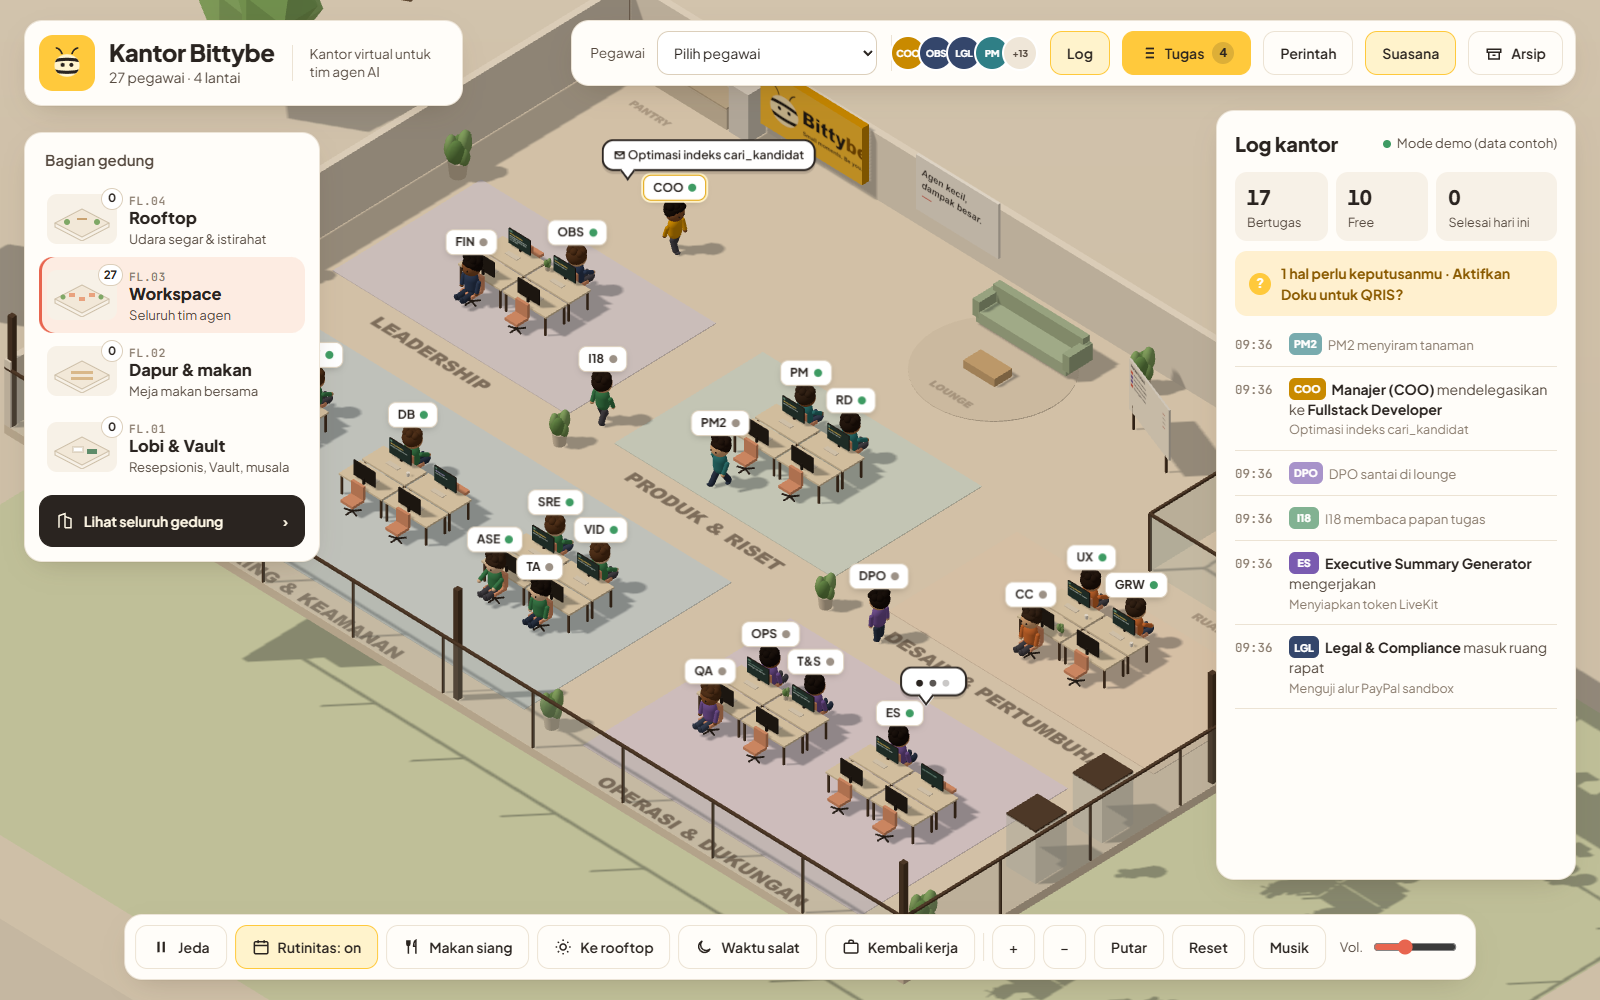
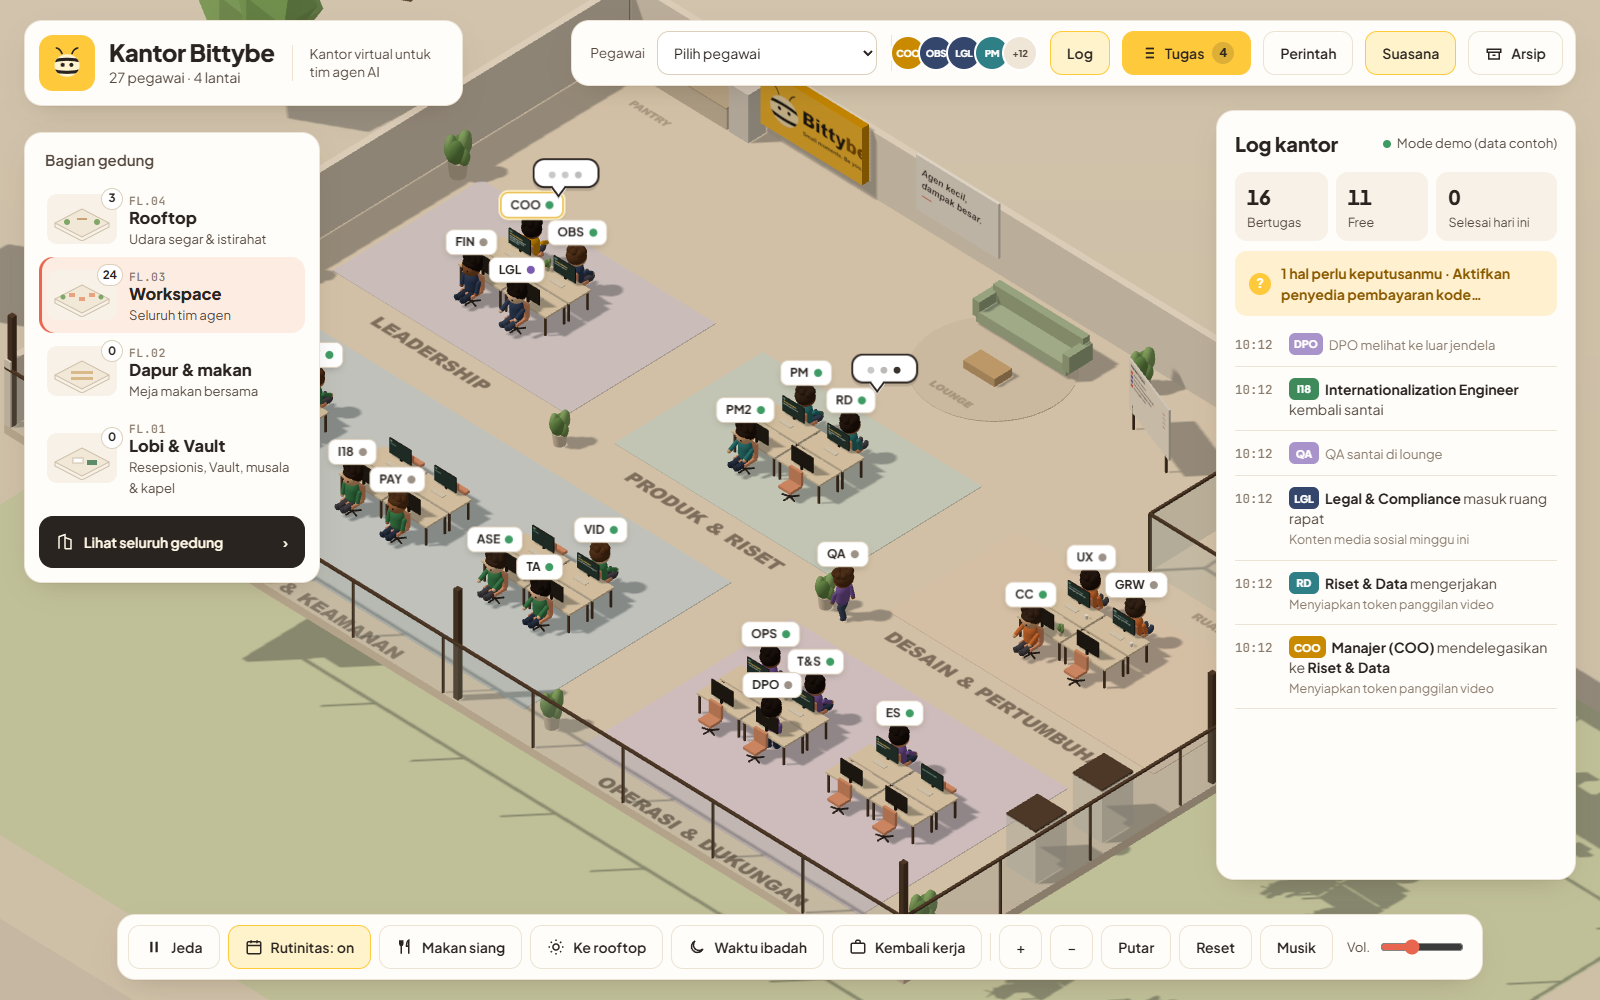
Drop vendor names from the office demo and add the chapel
No payment provider, video platform, messaging app or social network
is named anywhere in the demo data or the lobby signage. FL.01 now has
a chapel beside the prayer room and the routine sends staff to either.

diff --git a/kantor/index.html b/kantor/index.html
@@ -238,7 +238,7 @@ textarea.cmd{width:100%;min-height:120px;resize:vertical;border-radius:12px;bord
     <button class="btn" id="bRutin" type="button" aria-pressed="true"><svg viewBox="0 0 24 24" fill="none" stroke="currentColor" stroke-width="2" aria-hidden="true"><rect x="3" y="5" width="18" height="16" rx="2"/><path d="M3 10h18M8 3v4M16 3v4"/></svg><span>Rutinitas: on</span></button>
     <button class="btn" data-r="makan" type="button"><svg viewBox="0 0 24 24" fill="none" stroke="currentColor" stroke-width="2" aria-hidden="true"><path d="M7 3v8M5 3v5a2 2 0 0 0 4 0V3M7 11v10M17 21V3c-2 1-3 4-3 8h3"/></svg>Makan siang</button>
     <button class="btn" data-r="rooftop" type="button"><svg viewBox="0 0 24 24" fill="none" stroke="currentColor" stroke-width="2" aria-hidden="true"><circle cx="12" cy="12" r="4"/><path d="M12 2v2M12 20v2M2 12h2M20 12h2M5 5l1.5 1.5M17.5 17.5 19 19M5 19l1.5-1.5M17.5 6.5 19 5"/></svg>Ke rooftop</button>
-    <button class="btn" data-r="salat" type="button"><svg viewBox="0 0 24 24" fill="none" stroke="currentColor" stroke-width="2" aria-hidden="true"><path d="M20 14.5A8 8 0 1 1 9.5 4a6.5 6.5 0 0 0 10.5 10.5z"/></svg>Waktu salat</button>
+    <button class="btn" data-r="salat" type="button"><svg viewBox="0 0 24 24" fill="none" stroke="currentColor" stroke-width="2" aria-hidden="true"><path d="M20 14.5A8 8 0 1 1 9.5 4a6.5 6.5 0 0 0 10.5 10.5z"/></svg>Waktu ibadah</button>
     <button class="btn" data-r="kerja" type="button"><svg viewBox="0 0 24 24" fill="none" stroke="currentColor" stroke-width="2" aria-hidden="true"><rect x="3" y="7" width="18" height="13" rx="2"/><path d="M9 7V5a2 2 0 0 1 2-2h2a2 2 0 0 1 2 2v2"/></svg>Kembali kerja</button>
     <span class="sep"></span>
     <button class="btn" id="bIn" type="button" aria-label="Perbesar">+</button>
@@ -372,7 +372,7 @@ function teksLantai(teks, w, h, warna = "rgba(74,58,44,.62)") {
 /* ---- gedung ---- */
 const FH = 5.4, FW = 46, FD = 32, FX = FW / 2, FZ = FD / 2;
 const LANTAI = [
-  { no: 1, kode: "FL.01", nama: "Lobi & Vault", desk: "Resepsionis, Vault, musala" },
+  { no: 1, kode: "FL.01", nama: "Lobi & Vault", desk: "Resepsionis, Vault, musala & kapel" },
   { no: 2, kode: "FL.02", nama: "Dapur & makan", desk: "Meja makan bersama" },
   { no: 3, kode: "FL.03", nama: "Workspace", desk: "Seluruh tim agen" },
   { no: 4, kode: "FL.04", nama: "Rooftop", desk: "Udara segar & istirahat" },
@@ -607,11 +607,25 @@ function bangunLobi(g) {
   for (let i = 0; i < 5; i++) { const sj = kotak(0.9, 0.03, 1.6, i % 2 ? "#B5524A" : "#C9A44A", m0x + 1 + i * 1.6, 0.05, m0z + 1.6); sj.castShadow = false; g.add(sj); SPOT[1].push({ x: m0x + 1 + i * 1.6, z: m0z + 2.0, face: Math.PI, act: "salat di musala" }); }
   const mt = teksLantai("MUSALA", 4, 0.9, "rgba(255,255,255,.75)"); mt.position.set(m0x + 4, 0.06, m0z + 5); g.add(mt);
   for (let i = 0; i < 5; i++) SPOT[1].push({ x: m0x + 1 + i * 1.6, z: m0z + 4.0, face: Math.PI, act: "salat di musala" });
+  // kapel
+  const k0x = -21, k0z = 1;
+  const ks0 = kotak(9, 0.04, 7, "#7E8CA8", k0x + 4.5, 0.02, k0z + 3.5); ks0.castShadow = false; g.add(ks0);
+  for (let r = 0; r < 3; r++) {
+    const zb = k0z + 2.6 + r * 1.5;
+    g.add(kotak(5.4, 0.45, 0.5, "#8C6A49", k0x + 4.5, 0.32, zb));
+    g.add(kotak(5.4, 0.55, 0.16, "#7A5B3E", k0x + 4.5, 0.75, zb + 0.3));
+    for (let s = 0; s < 2; s++) SPOT[1].push({ x: k0x + 3.2 + s * 2.6, z: zb - 0.1, face: Math.PI, duduk: true, act: "berdoa di kapel" });
+  }
+  g.add(kotak(1.8, 0.85, 0.7, "#EFE7D8", k0x + 4.5, 0.42, k0z + 1));
+  g.add(kotak(0.16, 1.15, 0.16, "#8C6A49", k0x + 4.5, 1.45, k0z + 0.5));
+  g.add(kotak(0.72, 0.16, 0.16, "#8C6A49", k0x + 4.5, 1.72, k0z + 0.5));
+  const kpt = teksLantai("KAPEL", 4, 0.9, "rgba(255,255,255,.75)"); kpt.position.set(k0x + 4.5, 0.06, k0z + 6.2); g.add(kpt);
+  SPOT[1].push({ x: k0x + 4.5, z: k0z + 2, face: Math.PI, act: "berdoa di kapel" });
   // sofa tunggu
   g.add(kotak(4, 0.5, 1.1, "#B9CDB0", -8, 0.4, 8)); g.add(kotak(4, 0.8, 0.3, "#AFC4A6", -8, 0.9, 8.5));
   for (const x of [-9.3, -6.7]) SPOT[1].push({ x, z: 7.8, face: Math.PI, duduk: true, sofa: true, act: "menunggu di lobi" });
-  // kios Telegram
-  const kt = kanvas(256, 160, (c, W, H) => { c.fillStyle = "#229ED9"; c.fillRect(0, 0, W, H); c.fillStyle = "#fff"; c.font = "800 26px Plus Jakarta Sans,sans-serif"; c.fillText("Telegram", 20, 52); c.font = "600 19px Plus Jakarta Sans,sans-serif"; c.fillText("→ antrean kantor", 20, 92); c.fillText("perintah pemilik", 20, 122); });
+  // kios antrean
+  const kt = kanvas(256, 160, (c, W, H) => { c.fillStyle = "#6E7F8C"; c.fillRect(0, 0, W, H); c.fillStyle = "#fff"; c.font = "800 26px Plus Jakarta Sans,sans-serif"; c.fillText("Antrean", 20, 52); c.font = "600 19px Plus Jakarta Sans,sans-serif"; c.fillText("→ antrean kantor", 20, 92); c.fillText("perintah pemilik", 20, 122); });
   const ki = new THREE.Group(); ki.position.set(-2, 0, 4);
   ki.add(kotak(0.4, 1.2, 0.4, "#3E3530", 0, 0.6, 0));
   const ks = new THREE.Mesh(new THREE.BoxGeometry(1.4, 0.9, 0.08), [mat("#222"), mat("#222"), mat("#222"), mat("#222"), new THREE.MeshBasicMaterial({ map: kt }), mat("#222")]); ks.position.y = 1.6; ki.add(ks);
@@ -709,7 +723,7 @@ function tujuanUntuk(o, p) {
   if (k === "off") { const s = ambilSpot(o, 4, SPOT[4]); return { lantai: 4, ...s }; }
   if (mode === "makan") return { lantai: 2, ...ambilSpot(o, 2, SPOT[2]) };
   if (mode === "rooftop") return { lantai: 4, ...ambilSpot(o, 4, SPOT[4]) };
-  if (mode === "salat") return { lantai: 1, ...ambilSpot(o, 1, SPOT[1], (s) => s.act === "salat di musala") };
+  if (mode === "salat") return { lantai: 1, ...ambilSpot(o, 1, SPOT[1], (s) => s.act === "salat di musala" || s.act === "berdoa di kapel") };
   lepasSpot(o); return o.meja ? { lantai: 3, ...o.meja, duduk: true, act: "santai" } : { lantai: 3, ...ambilSpot(o, 3, SPOT[3]) };
 }
 const LORONG_Z = [-8.4, 2.6], PENGHUBUNG_X = [-7.8, 6.1];
@@ -914,7 +928,7 @@ function catatAmb(id, aksi) { if (!life) return; feed.unshift({ ts: new Date().t
 let tFeed = 0; function jadwalFeed() { clearTimeout(tFeed); tFeed = setTimeout(renderFeed, 120); }
 function renderFeed() {
   const list = feed.filter((f) => life || !f.amb);
-  $("feed").innerHTML = list.length ? list.slice(0, 80).map((f) => { const p = staff.get(f.who) || { id: f.who, name: f.who }; return `<div class="row${f.amb ? " amb" : ""}" data-id="${esc(f.who)}"><span class="tm">${jam(f.ts)}</span><span class="tx">${chipP(p)}${f.html}</span></div>`; }).join("") : '<div class="kosong">Belum ada aktivitas. Kirim perintah lewat Telegram atau tombol Perintah.</div>';
+  $("feed").innerHTML = list.length ? list.slice(0, 80).map((f) => { const p = staff.get(f.who) || { id: f.who, name: f.who }; return `<div class="row${f.amb ? " amb" : ""}" data-id="${esc(f.who)}"><span class="tm">${jam(f.ts)}</span><span class="tx">${chipP(p)}${f.html}</span></div>`; }).join("") : '<div class="kosong">Belum ada aktivitas. Kirim perintah lewat tombol Perintah.</div>';
   $("feed").querySelectorAll(".row").forEach((r) => (r.onclick = () => pilih(r.dataset.id)));
 }
 function masukEvent(e, anim) {
@@ -973,7 +987,7 @@ let pindahMode = false;
 const SURUH = {
   istirahat: [4, () => SPOT[4], "istirahat ke rooftop"],
   makan: [2, () => SPOT[2], "makan di dapur"],
-  ibadah: [1, () => SPOT[1].filter((s) => s.act === "salat di musala"), "beribadah di musala"],
+  ibadah: [1, () => SPOT[1].filter((s) => s.act === "salat di musala" || s.act === "berdoa di kapel"), "beribadah di musala atau kapel"],
   lounge: [3, () => SPOT[3].filter((s) => s.sofa), "santai di lounge"],
 };
 function catatPemilik(id, teks) { const p = staff.get(id); if (!p) return; feed.unshift({ ts: new Date().toISOString(), who: id, html: `<b>Pemilik</b> · ${esc(namaPendek(p))} ${esc(teks)}`, amb: false }); feed = feed.slice(0, 120); jadwalFeed(); }
@@ -1013,7 +1027,7 @@ function renderSheet() {
     B.querySelectorAll("[data-d]").forEach((b) => (b.onclick = () => tandaiTugas(ow[+b.dataset.d], true, b)));
     B.querySelectorAll("[data-u]").forEach((b) => (b.onclick = () => tandaiTugas(sd[+b.dataset.u], false, b)));
   } else if (tabSheet === "laporan") {
-    // Hasil kerja kantor: sumber sama dengan laporan Telegram (Vault/tasks/office-board.md, skills/lapor_pemilik.py).
+    // Hasil kerja kantor: sumber sama dengan laporan kantor (Vault/tasks/office-board.md, skills/lapor_pemilik.py).
     const hs = board.filter((b) => b.kind === "hasil").sort((a, b) => (a.pos || 0) - (b.pos || 0));
     B.innerHTML = `<p class="t" style="margin:0 0 10px">Laporan hasil kerja kantor, terbaru di atas. Tugas yang perlu Anda kerjakan ada di tab <b>Tugas saya</b>.</p>` +
       (hs.length ? hs.map((b) => `<div class="kd"><span class="tg">HASIL</span><b>${esc(b.title)}</b>${b.detail ? `<div class="t lap">${esc(b.detail)}</div>` : ""}</div>`).join("") : '<div class="kosong">Belum ada laporan hasil.</div>');
@@ -1031,7 +1045,7 @@ function renderSheet() {
     B.querySelectorAll("[data-a]").forEach((b) => (b.onclick = () => unduhArsip(arsip[+b.dataset.a], b)));
   } else {
     const SL = { baru: "terkirim", antre: "antre", dikerjakan: "dikerjakan", selesai: "selesai", gagal: "gagal" };
-    B.innerHTML = `<label for="cmdT" style="font-weight:700">Tulis perintah</label><p class="t" style="margin:4px 0 8px">Masuk antrean yang sama dengan bot Telegram. Manajer (COO) membaca, mendelegasikan ke pegawai yang tepat, dan balasan dikirim ke Telegram. Ctrl+Enter untuk kirim.</p>
+    B.innerHTML = `<label for="cmdT" style="font-weight:700">Tulis perintah</label><p class="t" style="margin:4px 0 8px">Masuk ke antrean kantor. Manajer (COO) membaca, mendelegasikan ke pegawai yang tepat, lalu balasannya dikirim kembali. Ctrl+Enter untuk kirim.</p>
       <textarea class="cmd" id="cmdT" maxlength="4000" placeholder='Contoh: "cek laporan baru dan rangkum", atau "[Pegawai: engineering-sre] cek uptime 24 jam terakhir"'></textarea>
       <div class="cmdbar"><button class="btn dark" type="button" id="cmdK">Kirim perintah →</button><span class="t" id="cmdM" role="status"></span></div>
       <div class="t" style="font-weight:700;margin-bottom:6px">Riwayat perintah</div>
@@ -1059,7 +1073,7 @@ async function tandaiTugas(item, selesai, tombol) {
   if (DEMO) { ubahLokal(); toast(selesai ? "Ditandai sudah (mode demo)." : "Dibatalkan (mode demo)."); return; }
   const { error } = await sb.rpc("owner_tugas_selesai", { p_judul: item.title, p_selesai: selesai });
   if (error) { tombol.disabled = false; toast(error.code === "42501" ? "Hanya pemilik (dengan MFA) yang bisa menandai tugas." : "Gagal menyimpan. Coba lagi."); return; }
-  ubahLokal(); toast(selesai ? "Tugas ditandai sudah. Laporan Telegram ikut diperbarui." : "Tugas dikembalikan ke daftar.");
+  ubahLokal(); toast(selesai ? "Tugas ditandai sudah. Laporan kantor ikut diperbarui." : "Tugas dikembalikan ke daftar.");
 }
 let arsip = null;
 async function muatArsip() {
@@ -1099,7 +1113,7 @@ const setLife = () => { $("bLife").setAttribute("aria-pressed", String(life)); r
 $("bLife").onclick = () => { life = !life; store.set("kb-life", life ? "1" : "0"); setLife(); };
 $("bPause").onclick = () => { paused = !paused; $("bPause").querySelector("span").textContent = paused ? "Lanjut" : "Jeda"; $("bPause").setAttribute("aria-pressed", String(paused)); };
 $("bRutin").onclick = () => { rutin = !rutin; $("bRutin").setAttribute("aria-pressed", String(rutin)); $("bRutin").querySelector("span").textContent = "Rutinitas: " + (rutin ? "on" : "off"); if (!rutin) for (const id of staff.keys()) if (kunci(staff.get(id)) === "free") rencanakan(id); };
-const NAMA_R = { makan: "Makan siang di FL.02", rooftop: "Pegawai free ke rooftop", salat: "Waktu salat di musala FL.01", kerja: "Kembali ke meja" };
+const NAMA_R = { makan: "Makan siang di FL.02", rooftop: "Pegawai free ke rooftop", salat: "Waktu ibadah di FL.01", kerja: "Kembali ke meja" };
 document.querySelectorAll("[data-r]").forEach((b) => (b.onclick = () => {
   mode = b.dataset.r; if (mode === "kerja") for (const o of orang.values()) o.manual = null;
   for (const id of staff.keys()) if (kunci(staff.get(id)) === "free" || mode === "kerja") rencanakan(id);
@@ -1195,11 +1209,11 @@ function langganan() {
 function demo() {
   setLive("demo");
   const daftar = [["executive_bittybe_coo", "COO / Orkestrator", true], ["executive_bittybe_observer", "Observer (audit kepatuhan)", true], ["finance_bittybe_cost", "Finance, Biaya & Payout", true], ["legal_bittybe_compliance", "Legal & Compliance", true], ["product_bittybe_roadmap", "Product Manager & Dokumentasi", true], ["product-manager", "Product Manager", false], ["research_bittybe_investigator", "Riset & Data (Investigator)", true], ["design_bittybe_ux", "Desain Produk & Brand (UX/UI)", true], ["marketing_bittybe_growth", "Growth, Konten & Komunitas", true], ["marketing-content-creator", "Content Creator", false], ["engineering_bittybe_fullstack", "Fullstack Developer (backend + PWA)", true], ["engineering_bittybe_realtime", "Realtime & Video Engineer", true], ["engineering_bittybe_review", "Reviewer", true], ["engineering-database-optimizer", "Database Optimizer", false], ["engineering-frontend-developer", "Frontend Developer", false], ["engineering-i18n-engineer", "Internationalization Engineer", false], ["engineering-payments-billing-engineer", "Payments & Billing Engineer", false], ["engineering-sre", "SRE (Site Reliability Engineer)", false], ["engineering-video-streaming-engineer", "Video Streaming Engineer", false], ["security_bittybe_audit", "Security Auditor", true], ["security-appsec-engineer", "Application Security Engineer", false], ["testing-test-automation-engineer", "Test Automation Engineer", false], ["operations_bittybe_devops", "DevOps & Monitoring", true], ["operations_bittybe_moderation", "Trust & Safety", true], ["operations_bittybe_qa", "QA", true], ["data-privacy-officer", "Data Privacy Officer", false], ["support-executive-summary-generator", "Executive Summary Generator", false]];
-  const TUGAS = ["Memperbaiki filter penemuan", "Menguji alur PayPal sandbox", "Audit RLS tabel chat", "Menulis ringkasan harian", "Menerjemahkan teks baru ke 5 bahasa", "Optimasi indeks cari_kandidat", "Menyiapkan token LiveKit", "Review PR #65", "Konten Instagram minggu ini"];
+  const TUGAS = ["Memperbaiki filter penemuan", "Menguji alur pembayaran di sandbox", "Audit izin akses tabel chat", "Menulis ringkasan harian", "Menerjemahkan teks baru ke 5 bahasa", "Optimasi indeks cari_kandidat", "Menyiapkan token panggilan video", "Review PR #65", "Konten media sosial minggu ini"];
   const st = () => { const r = Math.random(); return r < 0.4 ? "coding" : r < 0.5 ? "riset" : r < 0.62 ? "meeting" : r < 0.95 ? "idle" : "off"; };
   const rows = daftar.map(([id, name, core]) => { const s = st(); return { id, name, core, unit: core ? "Inti · Kepala departemen" : "", status: s, task: s === "idle" || s === "off" ? null : TUGAS[hash(id) % TUGAS.length], updated_at: new Date(Date.now() - 60000).toISOString() }; });
-  board = [{ id: 1, kind: "item", title: "Perbaiki dropdown terjemahan", state: "done", dept: "Engineering" }, { id: 2, kind: "item", title: "Kantor 3D realtime", state: "doing", dept: "Desain" }, { id: 3, kind: "item", title: "Integrasi Doku QRIS", state: "todo", dept: "Engineering" }, { id: 4, kind: "item", title: "Set secrets LiveKit", state: "todo", dept: "DevOps" }, { id: 5, kind: "item", title: "Uji panggilan video", state: "doing", dept: "QA" },
-    { id: 9, kind: "owner", tag: "KEPUTUSAN", title: "Aktifkan Doku untuk QRIS?", detail: "Butuh persetujuan pemilik sebelum kode pembayaran ditulis." },
+  board = [{ id: 1, kind: "item", title: "Perbaiki dropdown terjemahan", state: "done", dept: "Engineering" }, { id: 2, kind: "item", title: "Kantor 3D realtime", state: "doing", dept: "Desain" }, { id: 3, kind: "item", title: "Integrasi pembayaran kode QR", state: "todo", dept: "Engineering" }, { id: 4, kind: "item", title: "Set secrets panggilan video", state: "todo", dept: "DevOps" }, { id: 5, kind: "item", title: "Uji panggilan video", state: "doing", dept: "QA" },
+    { id: 9, kind: "owner", tag: "KEPUTUSAN", title: "Aktifkan penyedia pembayaran kode QR?", detail: "Butuh persetujuan pemilik sebelum kode pembayaran ditulis." },
     { id: 10, kind: "hasil", title: "Contoh laporan hasil", detail: "Ringkasan satu kalimat.\nApa yang dikerjakan: contoh.\nHasilnya: 10 dari 10 uji lulus.\nCara cek: buka Admin.\nYang perlu Anda lakukan: tidak ada." }];
   terapkanStaff(rows, true); tulisPapan(); renderHeader();
   let nid = 1;
